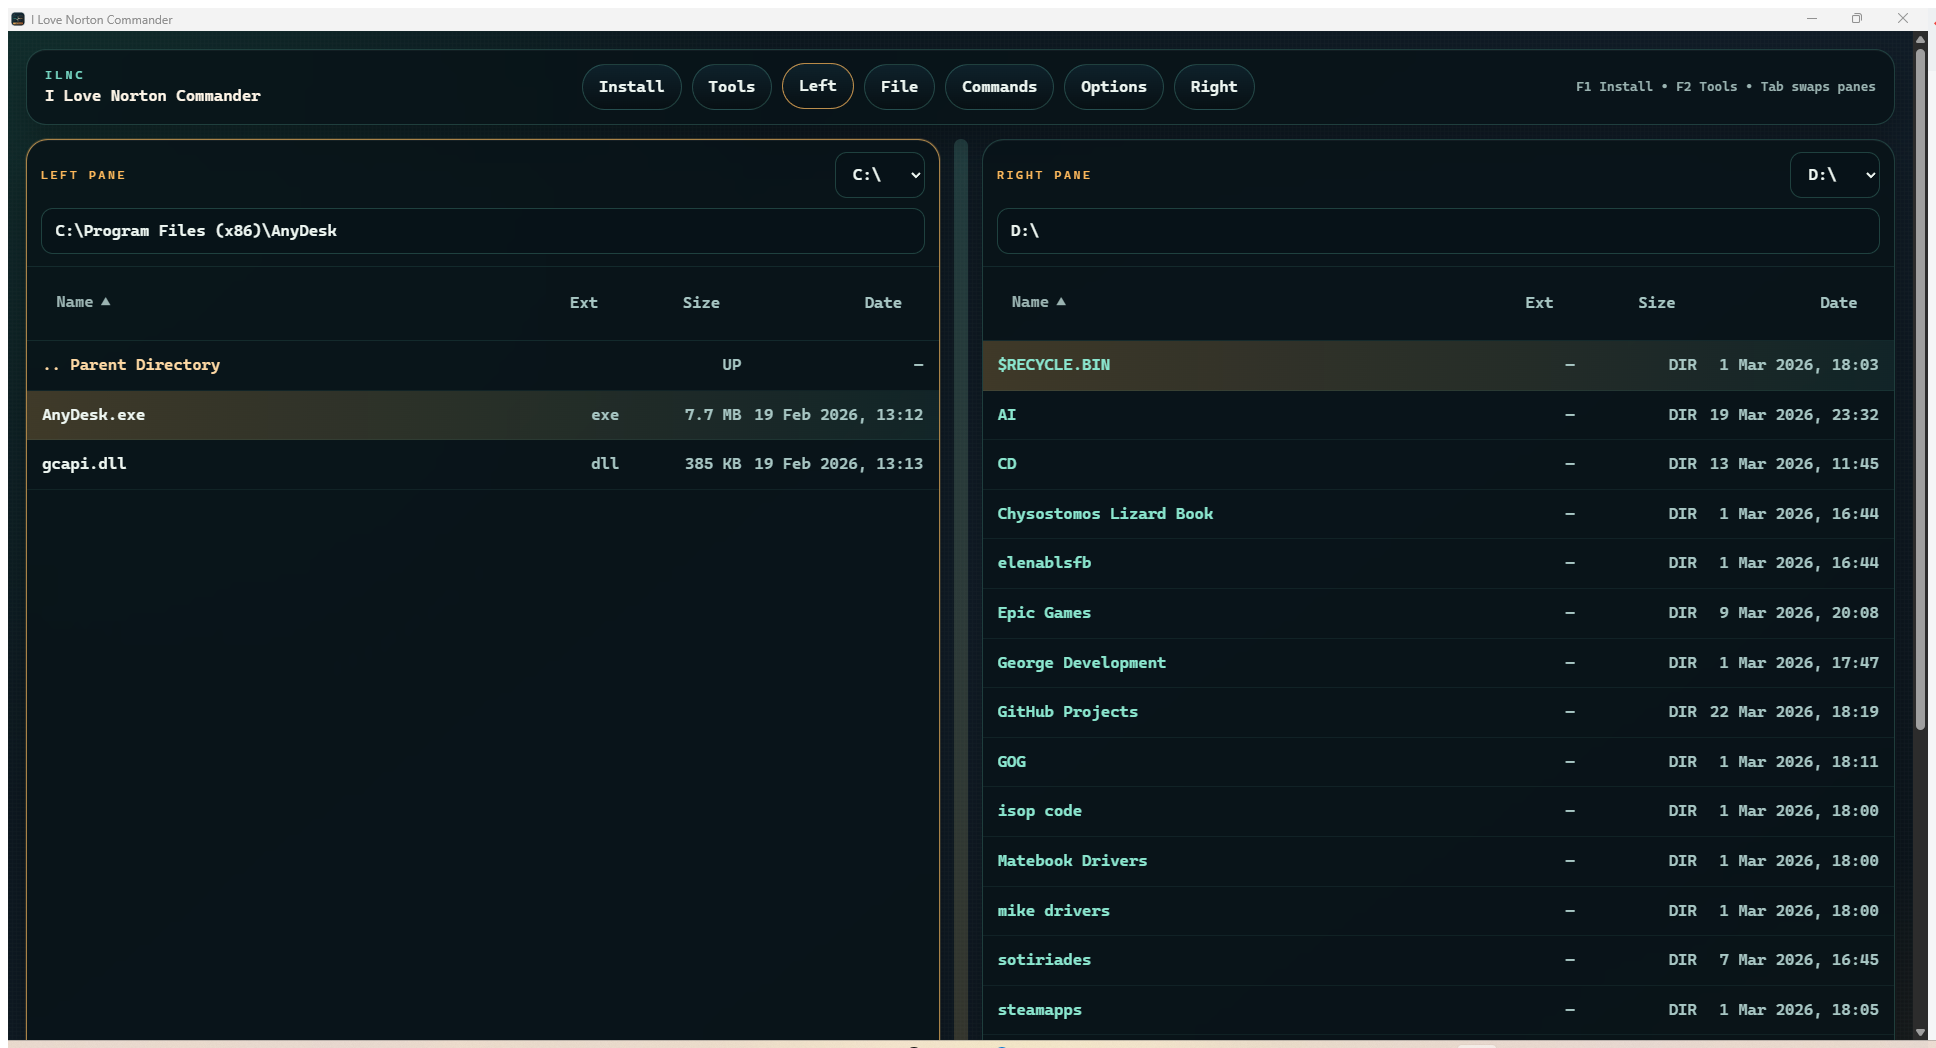
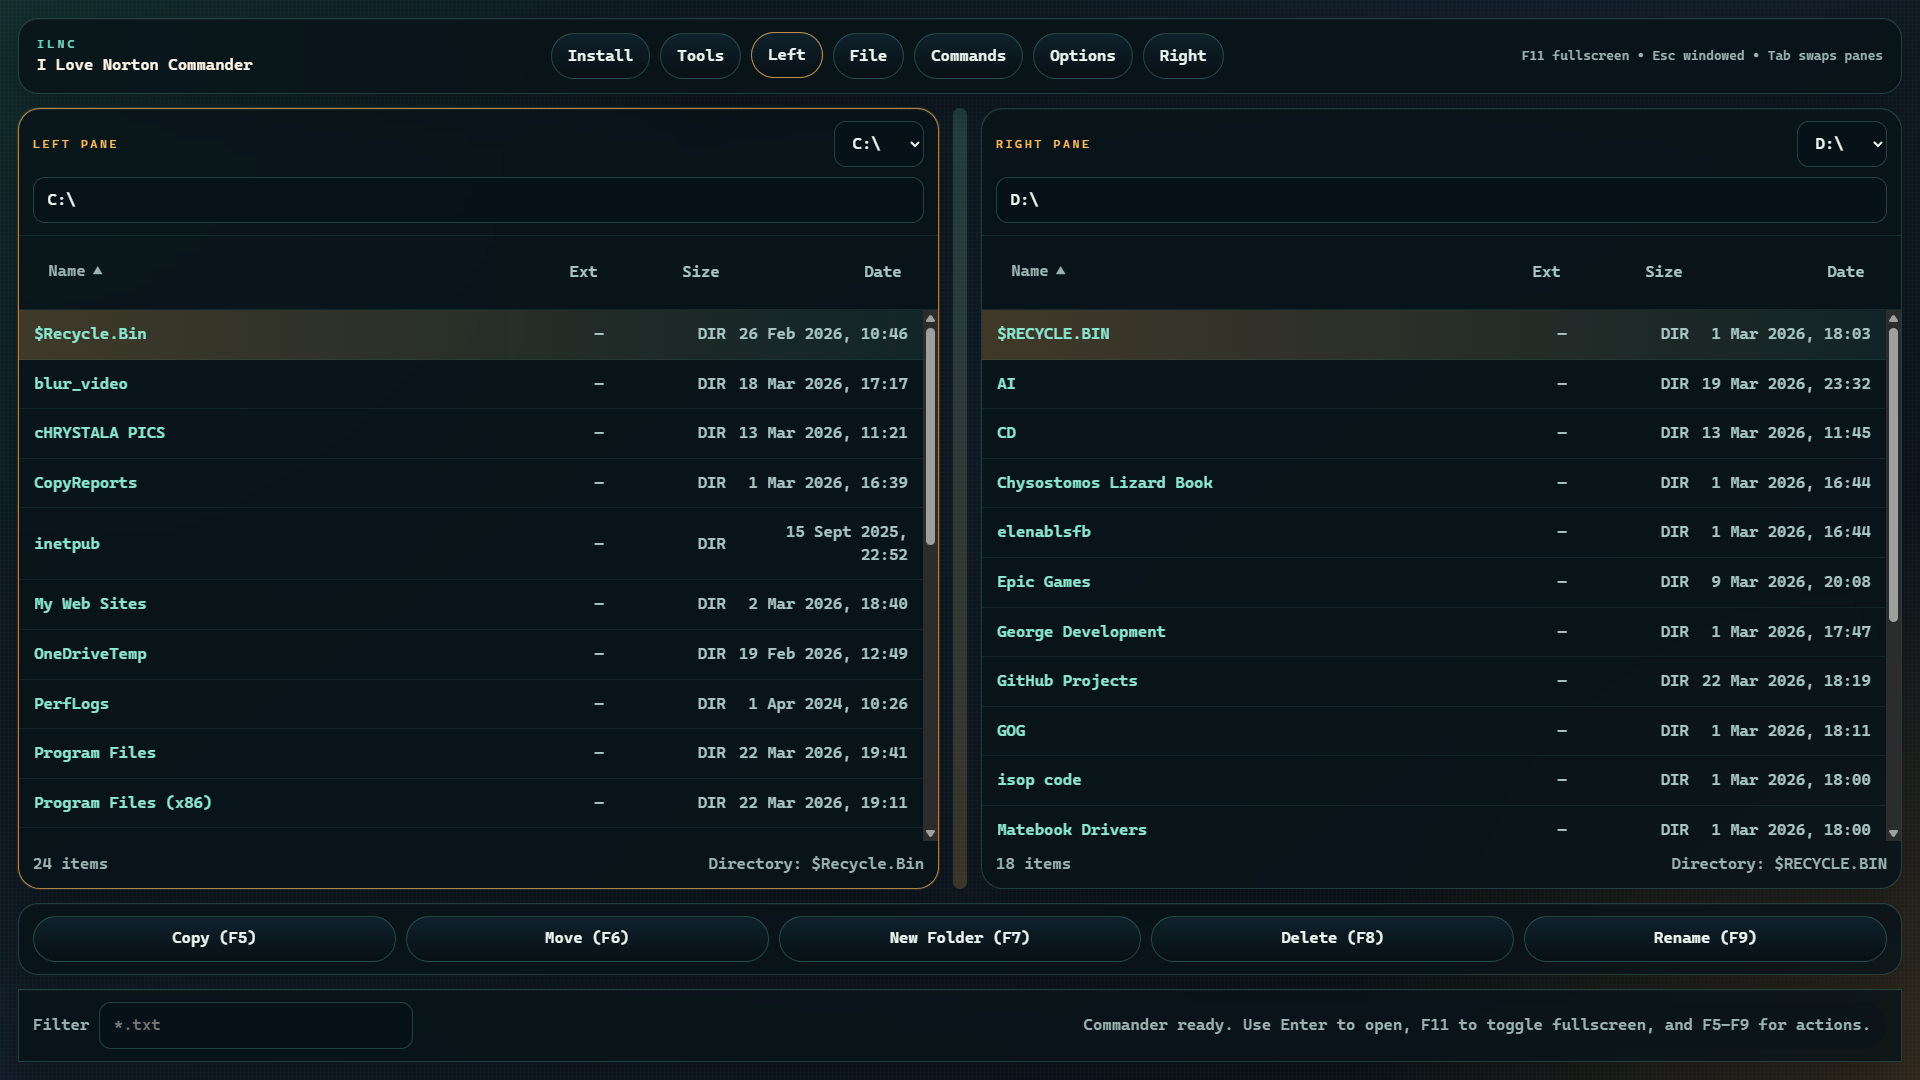
Ship immersive fullscreen shell release

diff --git a/src/main.ts b/src/main.ts
@@ -1,4 +1,5 @@
 import { invoke } from "@tauri-apps/api/core";
+import { getCurrentWindow } from "@tauri-apps/api/window";
 import { openPath, openUrl, revealItemInDir } from "@tauri-apps/plugin-opener";
 
 type PanelId = "left" | "right";
@@ -87,6 +88,7 @@ const modalOverlay = required<HTMLElement>("#modal-overlay");
 const modalHeader = required<HTMLElement>("#modal-header");
 const modalContent = required<HTMLElement>("#modal-content");
 const modalButtons = required<HTMLElement>("#modal-buttons");
+const appWindow = getCurrentWindow();
 
 let resolveModal: ((value: string) => void) | null = null;
 
@@ -128,11 +130,12 @@ function required<T extends Element>(selector: string): T {
 
 async function bootstrap(): Promise<void> {
   try {
+    await ensureImmersiveWindow();
     bindEvents();
     await initializePanels();
     renderAll();
     setStatus(
-      "Commander ready. Use Enter to open, Tab to swap panes, and F5-F9 for actions.",
+      "Commander ready. Use Enter to open, F11 to toggle fullscreen, and F5-F9 for actions.",
       "info",
     );
   } catch (error) {
@@ -497,6 +500,10 @@ function otherPanel(panelId: PanelId): PanelId {
 
 async function handleShortcut(event: KeyboardEvent): Promise<void> {
   switch (event.key) {
+    case "Escape":
+      event.preventDefault();
+      await exitFullscreenShell();
+      return;
     case "Tab":
       event.preventDefault();
       setActivePanel(otherPanel(state.activePanel));
@@ -516,6 +523,10 @@ async function handleShortcut(event: KeyboardEvent): Promise<void> {
     case "Backspace":
       event.preventDefault();
       await openParent(state.activePanel);
+      return;
+    case "F11":
+      event.preventDefault();
+      await toggleFullscreenShell();
       return;
     case "F1":
       event.preventDefault();
@@ -800,6 +811,7 @@ async function openShortcuts(): Promise<void> {
         <p><strong>Arrow Up / Down</strong> moves the selection.</p>
         <p><strong>Enter</strong> opens a folder or launches a file.</p>
         <p><strong>Backspace</strong> goes to the parent directory.</p>
+        <p><strong>F11</strong> toggles the fullscreen shell and <strong>Esc</strong> returns to a normal window.</p>
         <p><strong>F1</strong> opens install help and <strong>F2</strong> opens tools.</p>
         <p><strong>F5-F9</strong> map to Copy, Move, New Folder, Delete, and Rename.</p>
         <p><strong>Ctrl/Cmd + R</strong> refreshes both panes.</p>
@@ -810,6 +822,7 @@ async function openShortcuts(): Promise<void> {
 }
 
 async function openToolsCenter(): Promise<void> {
+  const fullscreen = await appWindow.isFullscreen();
   const choice = await showModal({
     title: "Tools",
     html: `
@@ -817,6 +830,7 @@ async function openToolsCenter(): Promise<void> {
       <div class="modal-grid">
         <button type="button" class="modal-action" data-modal-action="refresh-both">Refresh both panes</button>
         <button type="button" class="modal-action" data-modal-action="swap-panels">Swap panel locations</button>
+        <button type="button" class="modal-action" data-modal-action="toggle-fullscreen">${fullscreen ? "Leave fullscreen shell" : "Enter fullscreen shell"}</button>
         <button type="button" class="modal-action" data-modal-action="copy-path">Copy active path</button>
         <button type="button" class="modal-action" data-modal-action="open-folder">Open active folder</button>
         <button type="button" class="modal-action" data-modal-action="reveal-item">Reveal selected item</button>
@@ -833,6 +847,9 @@ async function openToolsCenter(): Promise<void> {
       break;
     case "swap-panels":
       await swapPanels();
+      break;
+    case "toggle-fullscreen":
+      await toggleFullscreenShell();
       break;
     case "copy-path":
       await copyActivePath();
@@ -866,7 +883,7 @@ async function openInstallCenter(): Promise<void> {
         <button type="button" class="modal-command" data-copy="npm run tauri dev">npm run tauri dev</button>
         <button type="button" class="modal-command" data-copy="npm run tauri build">npm run tauri build</button>
       </div>
-      <p class="modal-copy muted">This shell currently does not have <code>cargo</code> on PATH, so Rust still needs to be installed before native builds can run here.</p>
+      <p class="modal-copy muted">The packaged Windows installer bootstraps WebView2 automatically, but local source builds still need Rust and the Visual Studio C++ tools.</p>
       <button type="button" class="link-button" data-open-url="https://tauri.app/start/prerequisites/">Open Tauri prerequisites</button>
     `,
     buttons: [{ label: "Close", value: "close", variant: "primary" }],
@@ -992,6 +1009,49 @@ async function copyToClipboard(text: string): Promise<void> {
   } catch {
     window.prompt("Copy to clipboard:", text);
     setStatus("Clipboard access fell back to a prompt.", "info");
+  }
+}
+
+async function ensureImmersiveWindow(): Promise<void> {
+  try {
+    await appWindow.setDecorations(false);
+    await appWindow.setFullscreen(true);
+  } catch (error) {
+    console.error("Unable to enter immersive mode.", error);
+  }
+}
+
+async function toggleFullscreenShell(): Promise<void> {
+  try {
+    const fullscreen = await appWindow.isFullscreen();
+    if (fullscreen) {
+      await appWindow.setFullscreen(false);
+      await appWindow.setDecorations(true);
+      await appWindow.maximize();
+      setStatus("Exited fullscreen shell. Press F11 to jump back in.", "info");
+      return;
+    }
+
+    await appWindow.setDecorations(false);
+    await appWindow.setFullscreen(true);
+    setStatus("Fullscreen shell enabled.", "success");
+  } catch (error) {
+    setStatus(getErrorMessage(error), "error");
+  }
+}
+
+async function exitFullscreenShell(): Promise<void> {
+  try {
+    if (!(await appWindow.isFullscreen())) {
+      return;
+    }
+
+    await appWindow.setFullscreen(false);
+    await appWindow.setDecorations(true);
+    await appWindow.maximize();
+    setStatus("Exited fullscreen shell. Press F11 to jump back in.", "info");
+  } catch (error) {
+    setStatus(getErrorMessage(error), "error");
   }
 }
 

diff --git a/index.html b/index.html
@@ -23,7 +23,7 @@
           <button type="button" class="menu-item" data-menu="options">Options</button>
           <button type="button" class="menu-item" data-menu="right">Right</button>
         </div>
-        <div class="menu-hint">F1 Install • F2 Tools • Tab swaps panes</div>
+        <div class="menu-hint">F11 fullscreen • Esc windowed • Tab swaps panes</div>
       </header>
 
       <main class="main-area">

diff --git a/src/styles.css b/src/styles.css
@@ -22,6 +22,7 @@ html,
 body {
   margin: 0;
   min-height: 100%;
+  overflow: hidden;
 }
 
 body {
@@ -39,6 +40,7 @@ button {
 }
 
 #app {
+  height: 100vh;
   min-height: 100vh;
   display: grid;
   grid-template-rows: auto 1fr auto auto;

diff --git a/docs/how-it-works.md b/docs/how-it-works.md
@@ -6,6 +6,7 @@ This guide explains what the app does today, how the two-pane workflow behaves, 
 
 ## What You See
 
+- The app launches in a borderless fullscreen shell so the commander UI fills the screen instead of sitting inside normal Windows chrome.
 - The menu bar is the top control strip for Install, Tools, File actions, and command help.
 - The left and right panes each track their own current directory, sort order, selection, and drive.
 - The divider keeps the commander-style "active pane vs target pane" model clear.
@@ -82,6 +83,8 @@ That means the app treats launchable files like commands instead of only handing
 | `Arrow Up` / `Arrow Down` | Move selection |
 | `Enter` | Open a folder, open a file, or launch an executable |
 | `Backspace` | Go to the parent directory |
+| `F11` | Toggle the fullscreen shell |
+| `Esc` | Leave fullscreen and return to a normal maximized window |
 | `F1` | Open install help |
 | `F2` | Open the tools menu |
 | `F5` | Copy selected item |

diff --git a/README.md b/README.md
@@ -11,8 +11,10 @@ A Tauri desktop app that recreates the dual-pane file-manager feel of Norton Com
 
 ## Current Features
 
+- Borderless fullscreen shell on launch so the app can take over the screen instead of looking like a standard Windows window
 - Dual-pane directory browsing with drive selection
 - Keyboard-first navigation with `Tab`, `Enter`, `Backspace`, and `F5` through `F9`
+- `F11` toggles fullscreen mode and `Esc` drops back to a normal maximized window
 - `Enter` launches Windows executables such as `.exe`, `.bat`, `.cmd`, `.com`, and `.msi`
 - Sorting by name, extension, size, or modified date
 - File and folder operations: copy, move, rename, delete, and create directory
